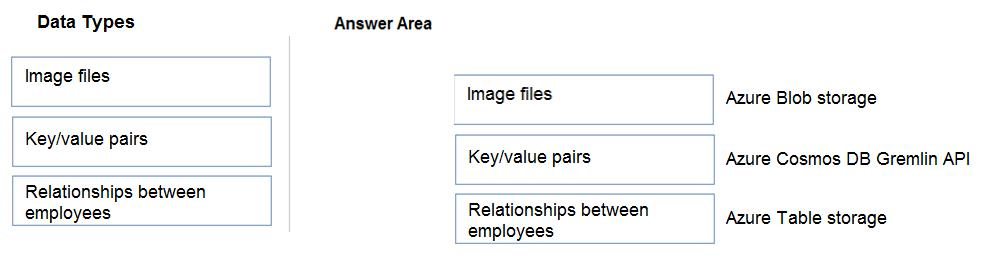
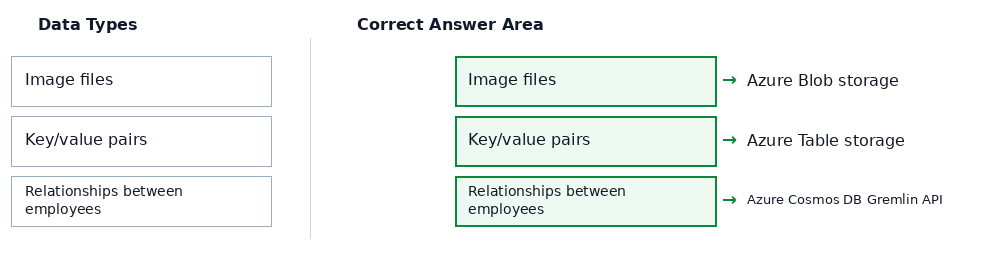
Fix DP900 question 21 mapping

diff --git a/artifacts/dp900-exam-prep/src/components/QuestionRenderer.tsx b/artifacts/dp900-exam-prep/src/components/QuestionRenderer.tsx
@@ -46,7 +46,7 @@ export default function QuestionRenderer({ question, submitted, onAnswer, userAn
         question={question}
         submitted={submitted}
         onAnswer={onAnswer}
-        userAnswer={userAnswer as Extract<UserAnswer, { type: "matching" }> | undefined}
+        userAnswer={userAnswer?.type === "matching" ? userAnswer : undefined}
       />
     );
   }
@@ -384,6 +384,13 @@ function MatchingQuestion({ question, submitted, onAnswer, userAnswer }: {
           </div>
         );
       })}
+      {submitted && question.explanation && (
+        <ExplanationBox
+          text={question.explanation}
+          isCorrect={question.pairs.every((pair, i) => selected[i] === pair.correctAnswer)}
+        />
+      )}
+      {submitted && <SourceImages sources={question.answerImages} alt={`Question ${question.id} corrected answer graphic`} />}
     </div>
   );
 }